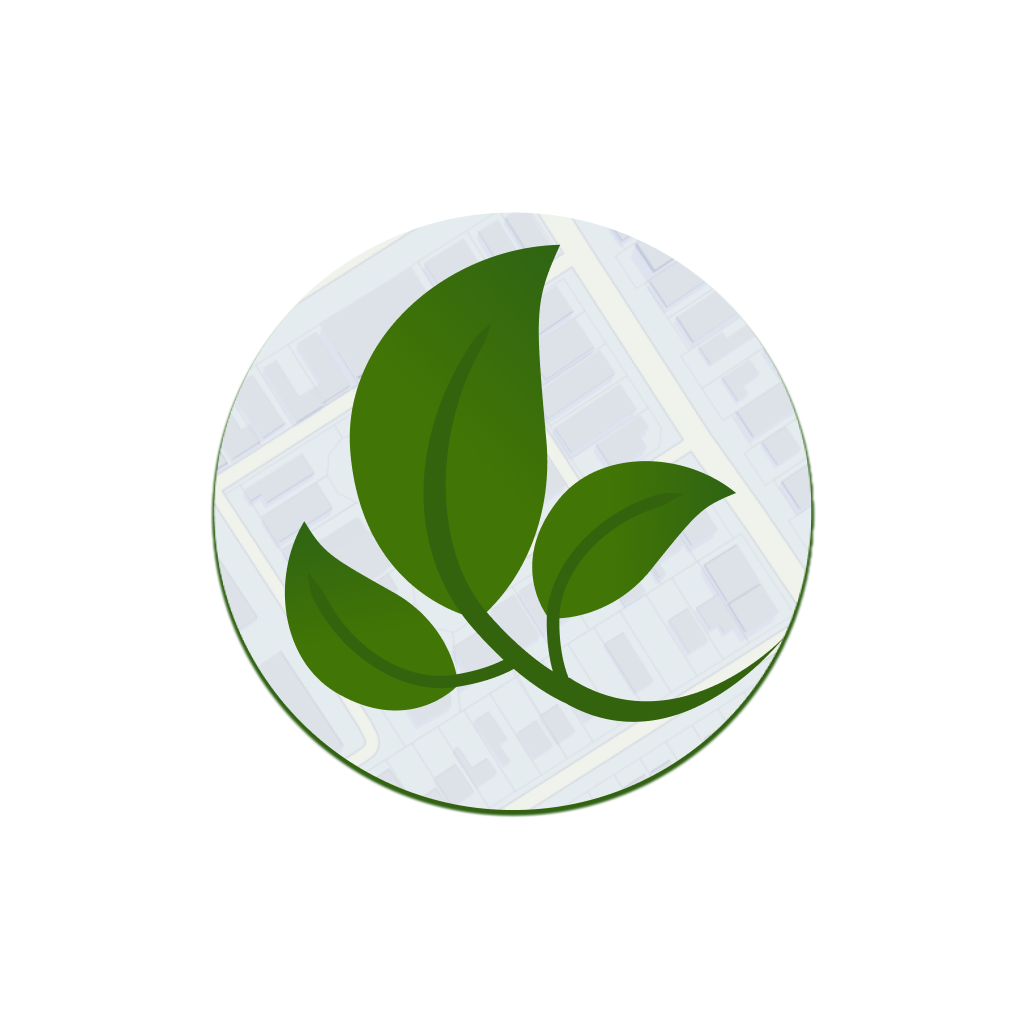
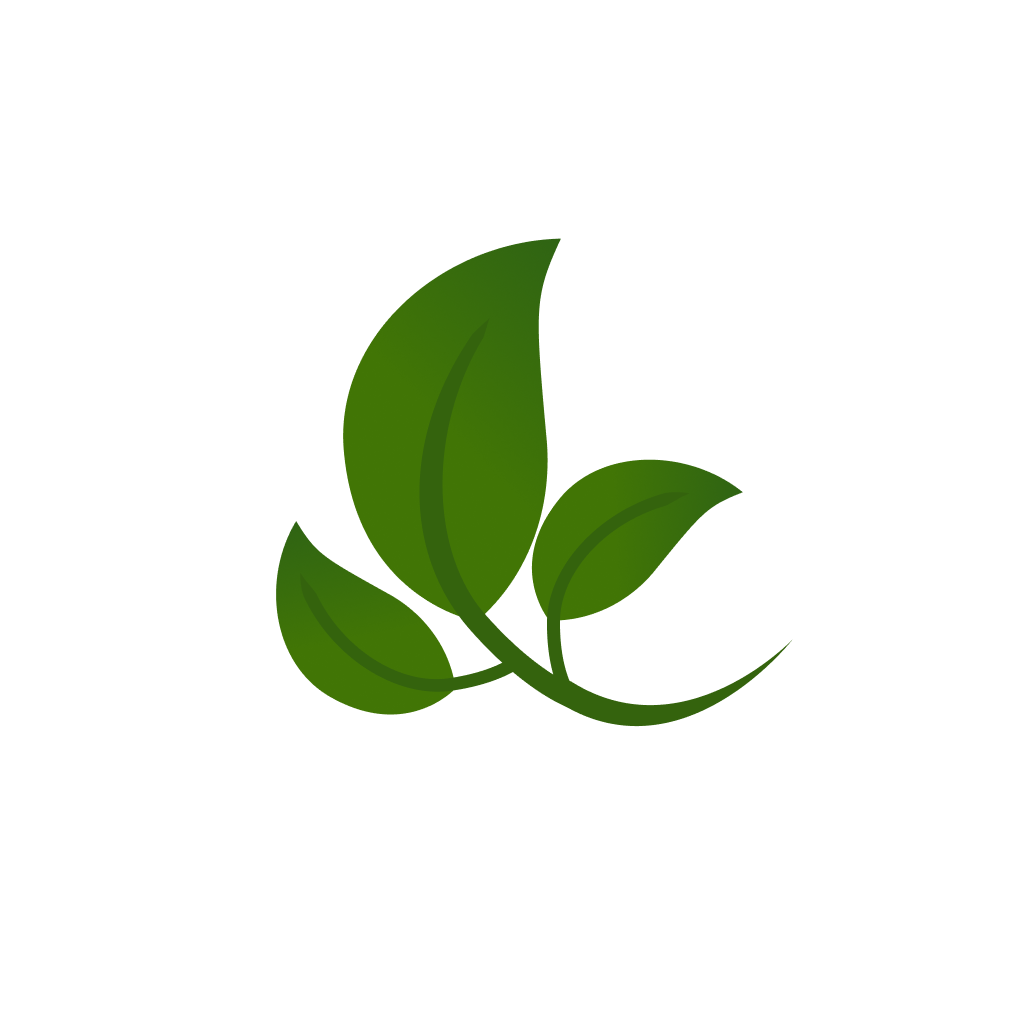
chore: update README

Changed region(s): [[0.1875, 0.1875, 0.8125, 0.8125]]

diff --git a/README.md b/README.md
@@ -1,5 +1,7 @@
 
-<h1 style="display: flex; align-item: center; justify-content: center; font-weight: bold" align="center">Mobile - TCC Eric Silva <img style='margin-left: 10px; width: 40px' src="./docs/recycle.png"/></h1>
+
+<img src="./docs/logo-header.png"/>
+
 
 [![Github Badge](https://img.shields.io/badge/-Github-000?style=flat-square&logo=Github&logoColor=white&link=https://github.com/monteiro-alexandre)](https://github.com/eric218110)
 [![Linkedin Badge](https://img.shields.io/badge/-LinkedIn-blue?style=flat-square&logo=Linkedin&logoColor=white&link=https://www.linkedin.com/in/alexandre-monteiro-9a03371a5/)](https://www.linkedin.com/in/eric-silva-mendes-8a6716143/)
@@ -34,24 +36,11 @@ Aplicativo para Android e IOS
 > ## Typescript
 
 * TSX - Typescript com React
-* POO Avançado
 * Interface
 * TypeAlias
 * Utility Types
-* Modularização de Paths
-* Build
-* Deploy
+* Build APK e IPA
 * Uso de Breakpoints
-
-> ## Layout :)
-
-<img style='max-width: 280px; margin: 5px' src="./docs/0.png"/>
-<img style='max-width: 280px; margin: 5px' src="./docs/1.png"/>
-<img style='max-width: 280px; margin: 5px' src="./docs/2.png"/>
-<img style='max-width: 280px; margin: 5px' src="./docs/3.png"/>
-<img style='max-width: 280px; margin: 5px' src="./docs/4.png"/>
-
----
 
 <p style="color: grey" align="center">
 Feito com muito carinho, dedicação e estudos por mim, <a href="https://github.com/eric218110/">Eric Silva</a>
